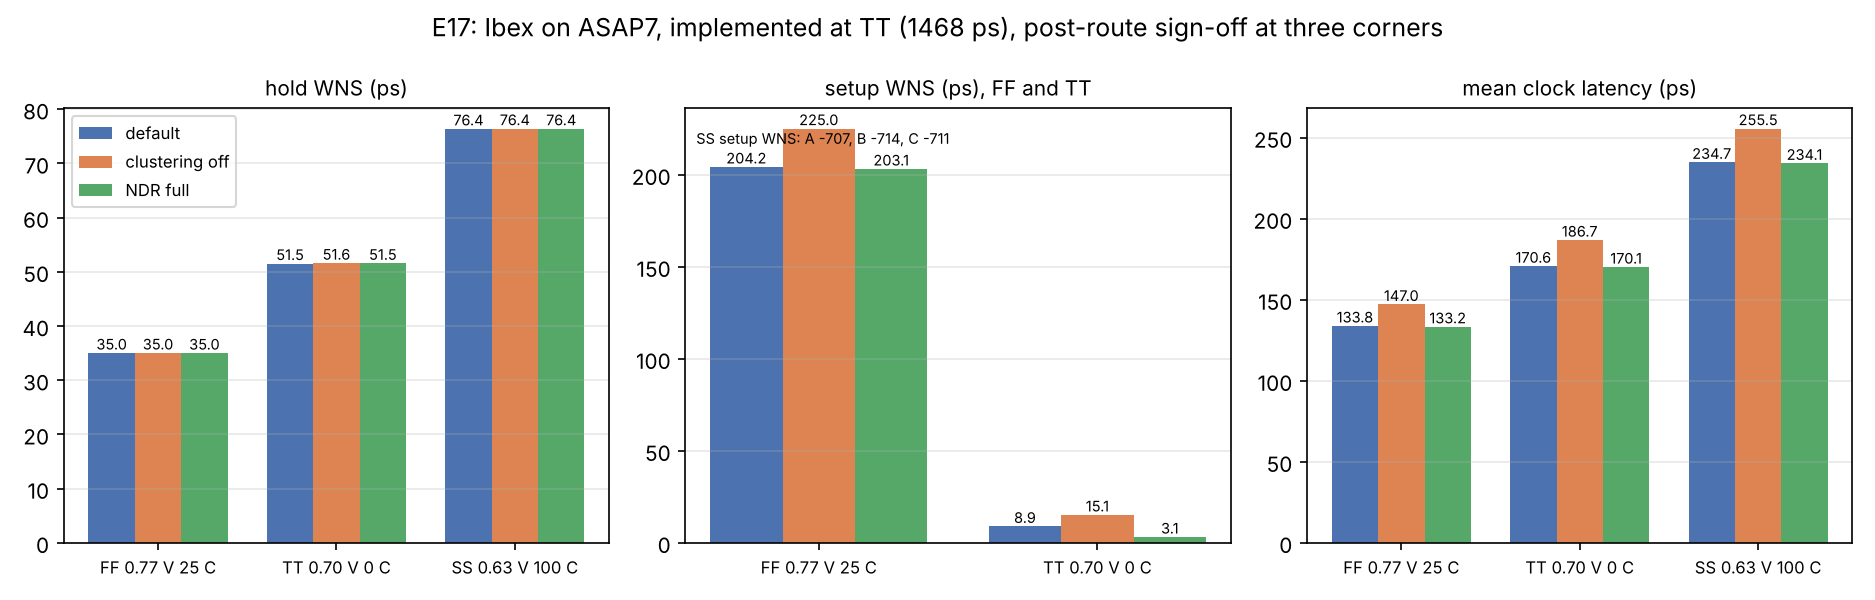
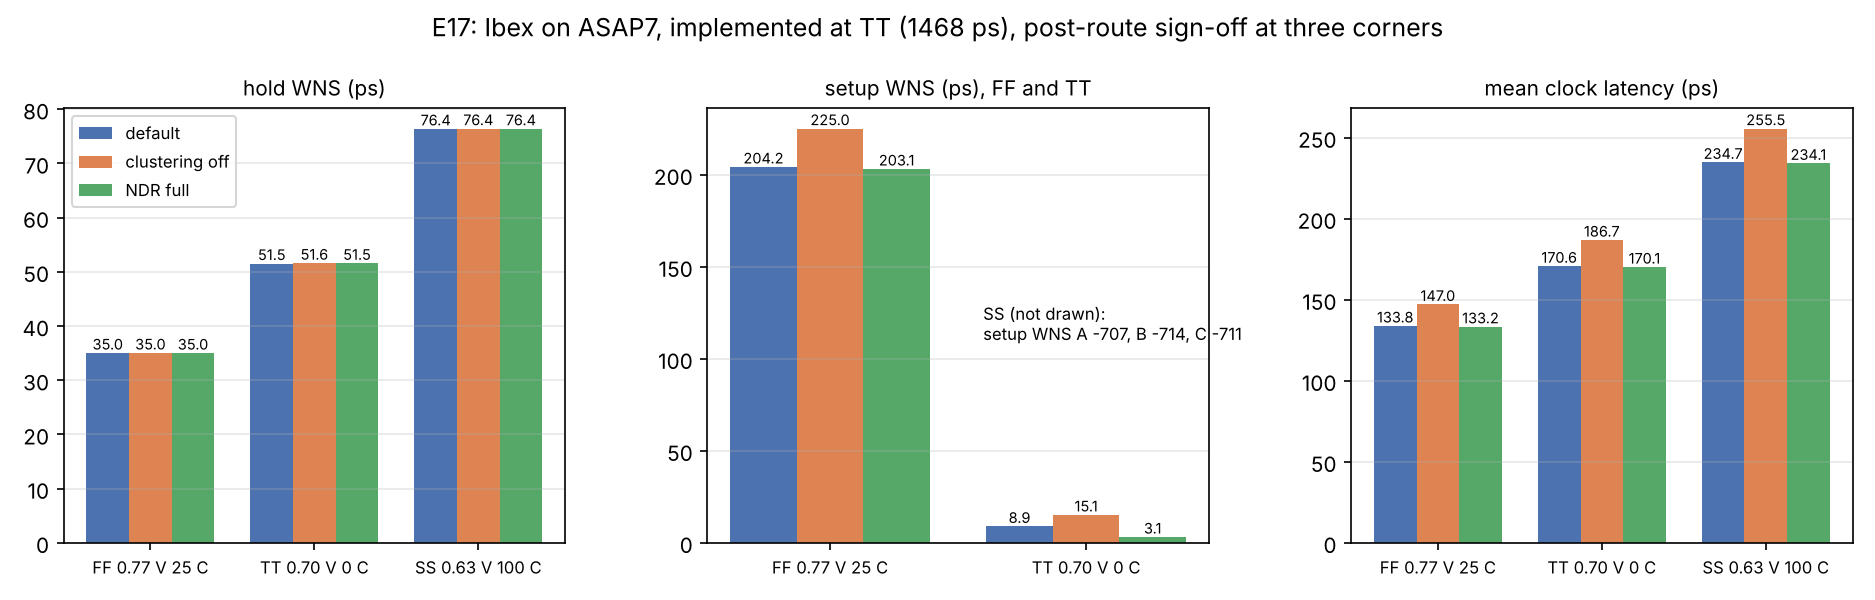
E17 plot: move the SS annotation off the bars
Claude-Session: https://claude.ai/code/session_01DeG2t41o9v2Fg6KvCvtjaY

diff --git a/scripts/e17_collect.py b/scripts/e17_collect.py
@@ -57,8 +57,8 @@ for ax, key, title in [(axs[0], "hold_wns_ps", "hold WNS (ps)"),
     ax.set_title(title, fontsize=10); ax.grid(axis="y", alpha=0.3)
 axs[0].legend(fontsize=8)
 ss = {r["run"]: r["setup_wns_ps"] for r in rows if r["corner"] == "WC"}
-axs[1].text(0.02, 0.95, "SS setup WNS: " + ", ".join(f"{k[-1]} {v:.0f}" for k, v in ss.items()),
-            transform=axs[1].transAxes, fontsize=7, va="top")
+axs[1].text(0.55, 0.55, "SS (not drawn):\n" + "setup WNS " + ", ".join(f"{k[-1]} {v:.0f}" for k, v in ss.items()),
+            transform=axs[1].transAxes, fontsize=8, va="top")
 fig.suptitle("E17: Ibex on ASAP7, implemented at TT (1468 ps), post-route sign-off at three corners")
 fig.tight_layout(); fig.savefig(REPO / "results" / "e17_corners.png", dpi=150)
 for r in rows:
